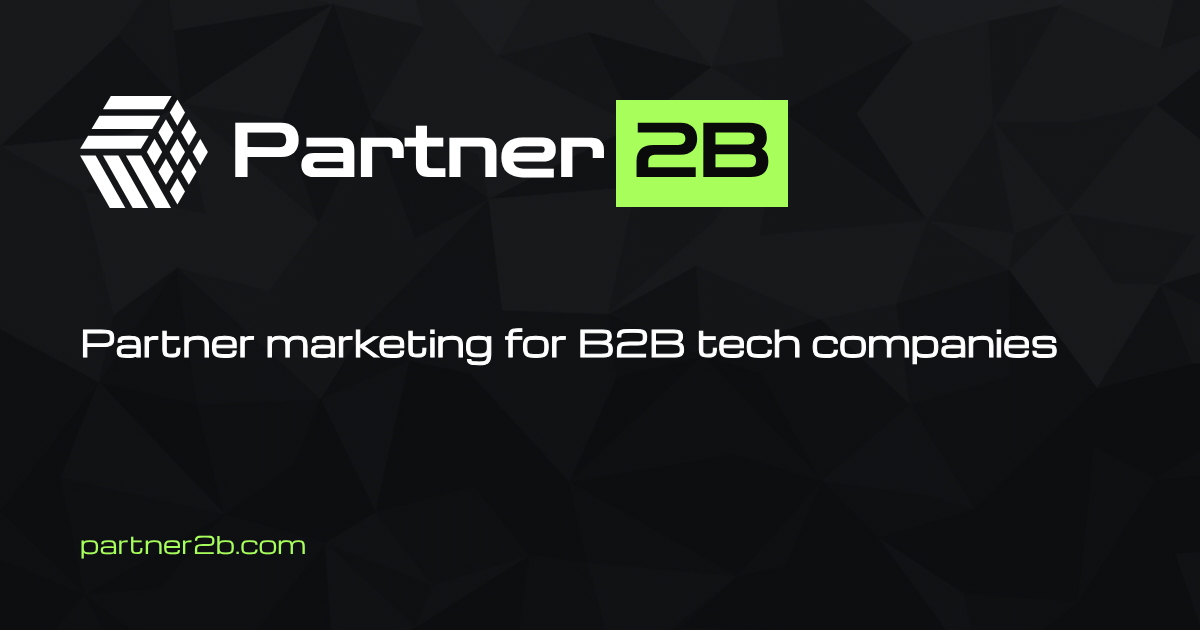
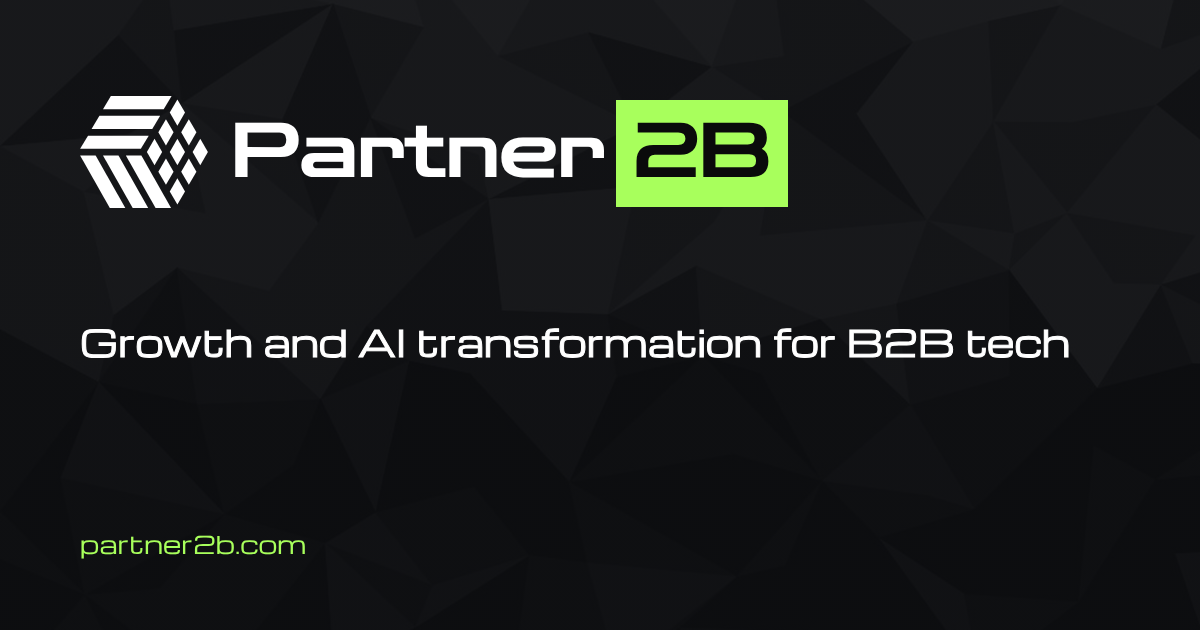
Wording: growth, marketing and AI transformation across meta, footer, About, schema, share image and llms.txt
Claude-Session: https://claude.ai/code/session_015dNsmto4tC77pwszinNmtr

Changed region(s): [[0.0617, 0.5127, 0.8942, 0.573]]

diff --git a/app/about-us/page.tsx b/app/about-us/page.tsx
@@ -6,8 +6,8 @@ import { Footer } from "@/components/Footer";
 import { BuilderCta } from "@/components/BuilderCta";
 
 export const metadata: Metadata = {
-  title: "About Partner2B | Partner marketing for B2B tech companies",
-  description: "Partner2B helps B2B tech companies build and run partner programs, from recruitment and enablement to co-marketing. It also runs a free directory of B2B partner programs.",
+  title: "About Partner2B | Growth and AI transformation for B2B tech",
+  description: "Partner2B is a marketing and go-to-market team for B2B tech companies. We accelerate pipeline and re-engineer workflows with AI. Free partner program directory.",
   alternates: { canonical: "/about-us" },
 };
 
@@ -20,14 +20,17 @@ export default function Page() {
         <div className="wrap" style={{ padding: "40px var(--margin) clamp(36px,9vw,64px)" }}>
           <h1 className="h1big">About Partner2B</h1>
           <p style={{ margin: "22px 0 0", maxWidth: 900, fontSize: 20, lineHeight: 1.5, color: "#ECECEE" }}>
-            Partner2B helps businesses grow through partner ecosystems.
+            Growth and AI transformation, for B2B tech companies
           </p>
         </div>
       </div>
       <main className="wrap" style={{ padding: "clamp(36px,9vw,64px) var(--margin) clamp(36px,9vw,96px)" }}>
         <div style={{ maxWidth: 760, fontSize: 18, lineHeight: 1.65, color: "#ECECEE" }}>
           <p style={{ margin: 0 }}>
-            Partner2B is a free directory of B2B partner programs. It brings commissions, tiers, requirements and benefits for reseller, referral, technology, services, MSP and OEM programs into one place, so you can compare programs and join the ones that fit.
+            Partner2B is a marketing and go-to-market team for B2B tech companies, with AI transformation built in. We accelerate your pipeline and re-engineer company-wide workflows, treating revenue and operational efficiency as one problem.
+          </p>
+          <p style={{ margin: "22px 0 0" }}>
+            Partner2B also runs a free directory of B2B partner programs. It brings commissions, tiers, requirements and benefits for reseller, referral, technology, services, MSP and OEM programs into one place, so you can compare programs and join the ones that fit.
           </p>
           <p style={{ margin: "22px 0 0" }}>
             Every listing is compiled from open sources and links to the official program page. Companies can submit or claim their program, and anyone can report a correction.

diff --git a/app/services/page.tsx b/app/services/page.tsx
@@ -8,9 +8,9 @@ import { BuilderCta } from "@/components/BuilderCta";
 import { Glyph } from "@/components/Tile";
 
 export const metadata: Metadata = {
-  title: "Partner2B Services: B2B go-to-market and partner ecosystems",
+  title: "Marketing, go-to-market and AI transformation | Partner2B",
   description:
-    "GTM, partner recruitment, enablement, co-marketing and partner operations for B2B vendors in AI, SaaS, fintech and cybersecurity. Grow through partner ecosystems.",
+    "Marketing, go-to-market and AI transformation for B2B tech companies. Positioning, partner recruitment, co-marketing, workflow automation and AI agents.",
   alternates: { canonical: "/services" },
 };
 
@@ -98,7 +98,7 @@ const btnB: React.CSSProperties = { background: "#7C5CFF", color: "#fff", fontFa
 export default function Services() {
   return (
     <div style={{ overflow: "hidden" }}>
-      <JsonLd data={{ "@context": "https://schema.org", "@graph": [ { "@type": "Service", name: "Partner marketing and go-to-market for B2B tech companies", serviceType: "Partner marketing", description: "Positioning and messaging, partner recruitment, enablement, co-marketing and co-selling for B2B tech companies in AI, SaaS, fintech and cybersecurity.", url: `${SITE}/services`, provider: ORG, areaServed: "Worldwide" }, crumbs([["Partner2B", SITE], ["Services", `${SITE}/services`]]) ] }} />
+      <JsonLd data={{ "@context": "https://schema.org", "@graph": [ { "@type": "Service", name: "Marketing, go-to-market and AI transformation for B2B tech companies", serviceType: "Go-to-market, marketing and AI transformation", description: "Positioning, partner recruitment, co-marketing, workflow automation and AI agents for B2B tech companies in AI, SaaS, fintech and cybersecurity.", url: `${SITE}/services`, provider: ORG, areaServed: "Worldwide" }, crumbs([["Partner2B", SITE], ["Services", `${SITE}/services`]]) ] }} />
       <div style={{ overflow: "hidden" }}>
         {/* Hero */}
         <div style={{ position: "relative" }}>

diff --git a/app/layout.tsx b/app/layout.tsx
@@ -4,8 +4,8 @@ import { JsonLd, ORG, SITE } from "@/components/JsonLd";
 
 export const metadata: Metadata = {
   metadataBase: new URL("https://partner2b.com"),
-  title: "Partner2B: partner marketing for B2B tech companies",
-  description: "Partner2B helps B2B tech companies build and run partner programs. We recruit, enable and market your partners. Includes a free directory of B2B partner programs.",
+  title: "Growth and AI transformation for B2B tech | Partner2B",
+  description: "Partner2B is a marketing and go-to-market team for B2B tech companies. We accelerate pipeline and re-engineer workflows with AI. Free partner program directory.",
   openGraph: { type: "website", siteName: "Partner2B", locale: "en_US" },
   twitter: { card: "summary_large_image" },
 };

diff --git a/app/page.tsx b/app/page.tsx
@@ -12,8 +12,8 @@ import { builderIsNew } from "@/lib/launch";
 
 export const revalidate = 600;
 export const metadata: Metadata = {
-  title: "Partner2B: partner marketing and B2B partner program directory",
-  description: "Partner2B helps B2B tech companies build and run partner programs. Compare reseller, referral, technology, MSP and AI partner programs in the free directory.",
+  title: "Growth and AI transformation for B2B tech | Partner2B",
+  description: "Partner2B is a marketing and go-to-market team for B2B tech companies. Compare reseller, referral, technology, MSP and AI partner programs in our free directory.",
   alternates: { canonical: "/" },
 };
 

diff --git a/components/JsonLd.tsx b/components/JsonLd.tsx
@@ -10,7 +10,7 @@ export const ORG = {
   url: SITE,
   logo: `${SITE}/apple-icon.png`,
   email: "hello@partner2b.com",
-  description: "Partner2B helps B2B tech companies build and run partner programs. We recruit, enable and market partners, and run a free directory of B2B partner programs.",
+  description: "Partner2B is a marketing and go-to-market team for B2B tech companies. We accelerate pipeline and re-engineer company-wide workflows with AI, and run a free directory of B2B partner programs.",
 };
 export const crumbs = (items: [string, string][]) => ({
   "@type": "BreadcrumbList",

diff --git a/components/Footer.tsx b/components/Footer.tsx
@@ -12,7 +12,7 @@ export function Footer() {
         <div className="footleft">
           <Link href="/" aria-label="Partner2B home"><Logo variant="light" /></Link>
           <p style={{ margin: "20px 0 0", fontSize: 17, lineHeight: 1.6, fontWeight: 400, color: "#ECECEE" }}>
-            We recruit, enable and market partners for B2B tech companies
+            Growth and AI transformation, for B2B tech companies
           </p>
           <div className="foothead" style={{ marginTop: 34 }}>Newsletter</div>
           <NewsletterForm />

diff --git a/app/contact/page.tsx b/app/contact/page.tsx
@@ -5,7 +5,7 @@ import { Footer } from "@/components/Footer";
 
 export const metadata: Metadata = {
   title: "Contact | Partner2B",
-  description: "Contact Partner2B at hello@partner2b.com about partner marketing, program listings, corrections and partnerships.",
+  description: "Contact Partner2B at hello@partner2b.com about marketing, go-to-market and AI work for B2B tech companies, program listings, corrections and partnerships.",
   alternates: { canonical: "/contact" },
 };
 
